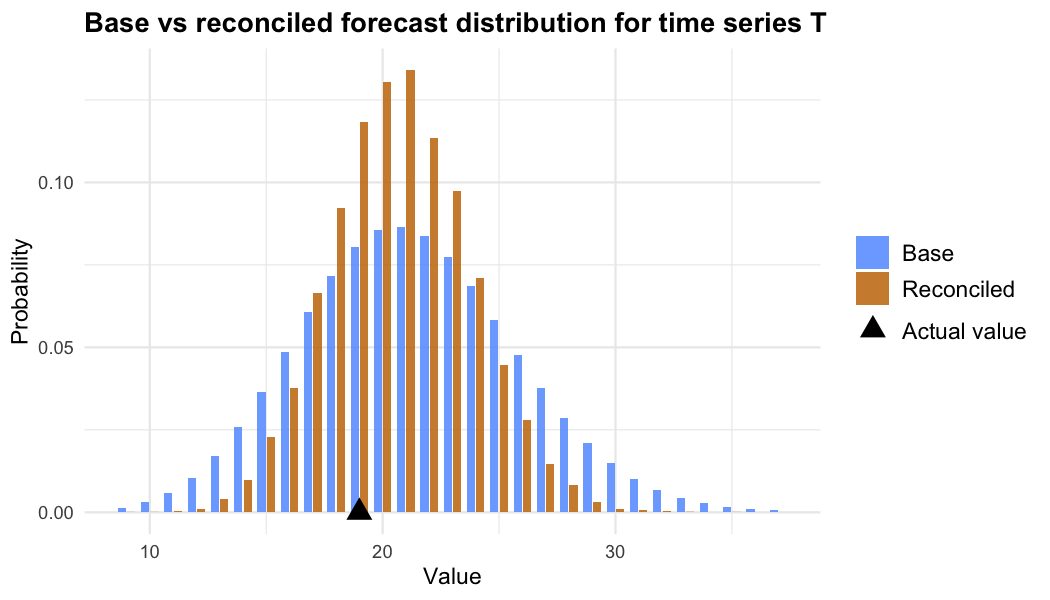
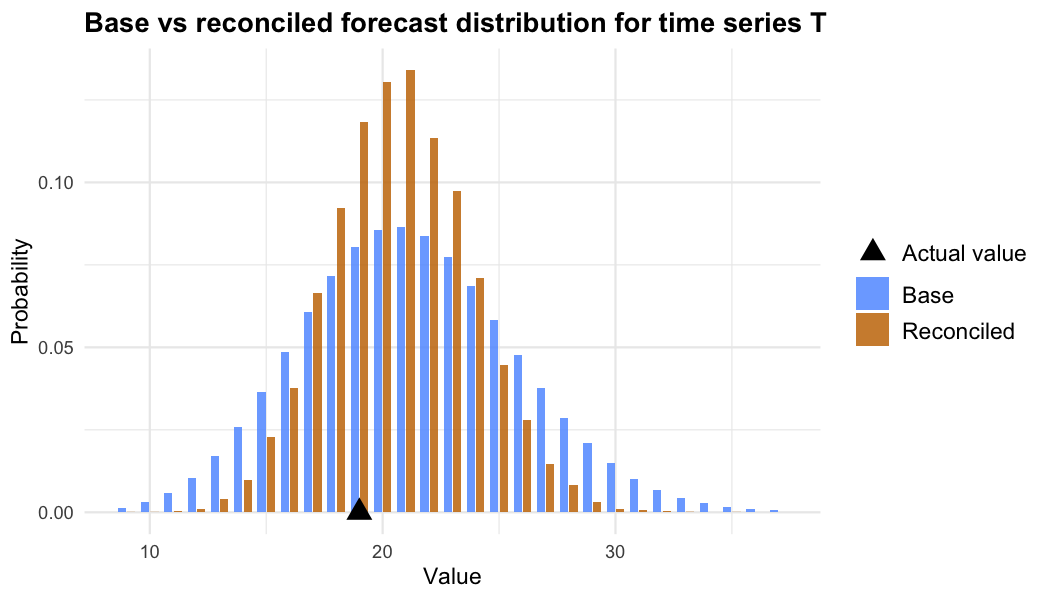
prepared for CRAN submission v1.0.2

Changed region(s): [[0.7924, 0.39, 0.9752, 0.6]]

diff --git a/cran-comments.md b/cran-comments.md
@@ -1,0 +1,19 @@
+## Test Environments
+
+* Local MacOS 15.7.7 install, R version 4.6.1 (2026-06-24)
+* macos-latest,   r: 'release'
+* windows-latest, r: 'release'
+* ubuntu-latest,   r: 'devel', http-user-agent: 'release'
+* ubuntu-latest,   r: 'release'
+* ubuntu-latest,   r: 'oldrel-1'
+
+## R CMD check results
+
+── R CMD check results ───────────────────────────────────────────────────────────────────────────── bayesRecon 1.0.2 ────
+Duration: 5m 19.5s
+
+0 errors ✔ | 0 warnings ✔ | 0 notes ✔
+
+## Resubmission
+
+Update of an existing package. This minor update with fixed broken links and new version of the vignette t_reconciliation.Rmd. 

diff --git a/NEWS.md b/NEWS.md
@@ -1,8 +1,14 @@
+# bayesRecon 1.0.2
+
+* Updated vignette 't_reconciliation.Rmd'.
+
+* Fixed broken links.
+
 # bayesRecon 1.0.1
 
 * Vignette for the function `reconc_t`.
 
-* Updated version of README
+* Updated version of README.
 
 * Fixed a bug in auxiliary function to `reconc_t` (`.compute_naive_cov`) that could cause major fail.
 
